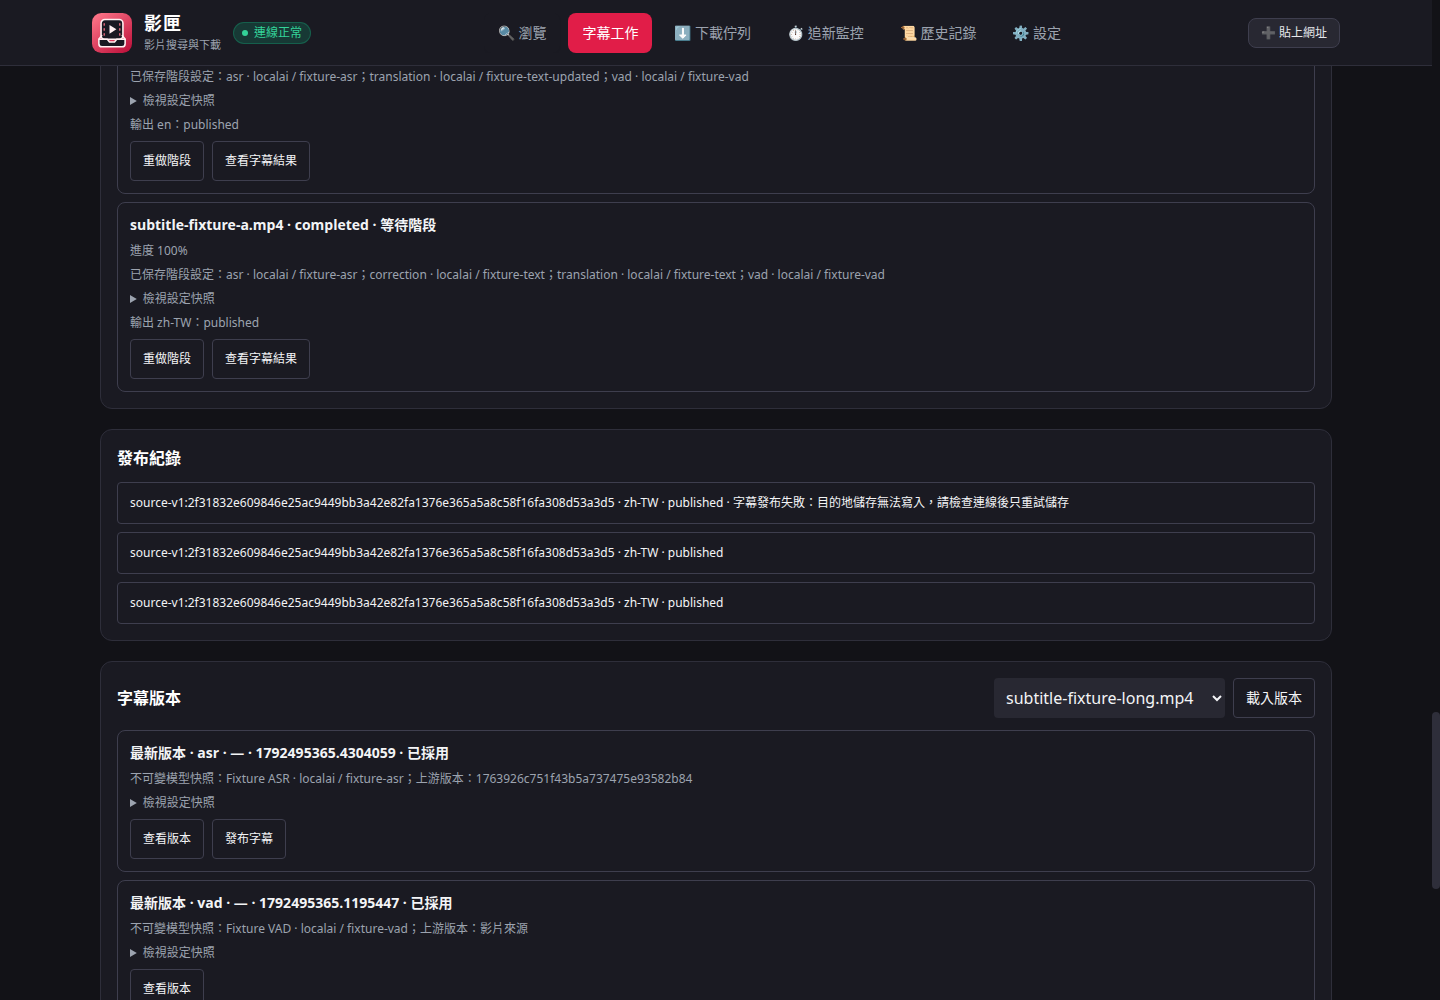
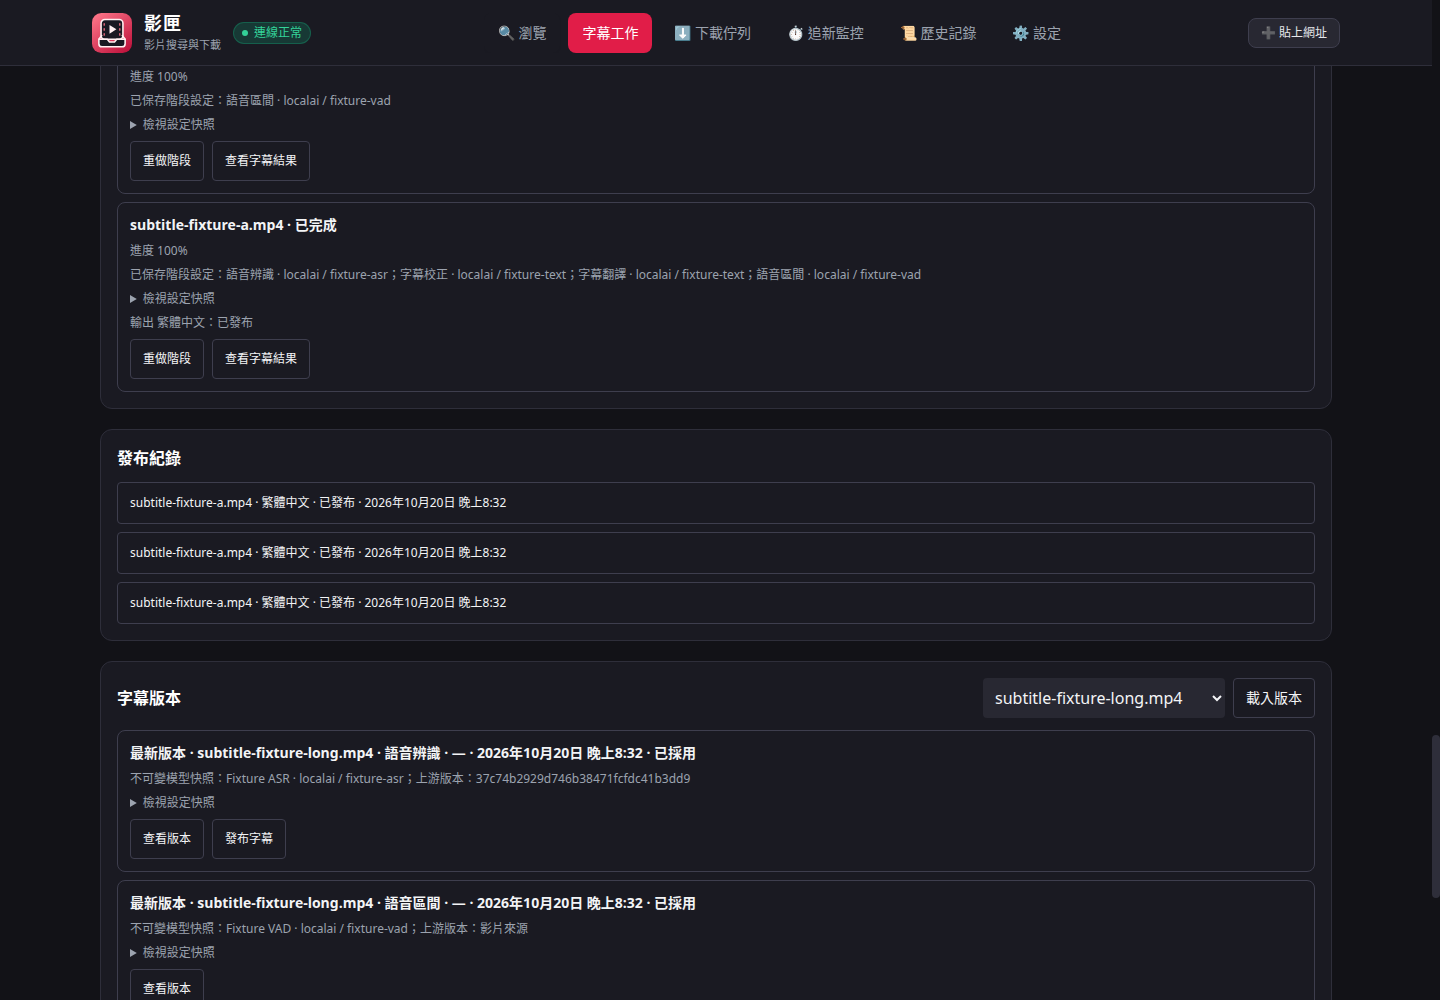
docs: record subtitle acceptance evidence

diff --git a/docs/superpowers/plans/2026-10-20-external-subtitles.md b/docs/superpowers/plans/2026-10-20-external-subtitles.md
@@ -108,7 +108,7 @@ class StageResult:
 
 `subtitle_tasks.submit(video_id, selected_stages, profile_snapshots, target_languages) -> TaskSnapshot`；`subtitle_tasks.redo(video_id, stage, profile_snapshot, language=None, input_result_id=None) -> TaskSnapshot`；`subtitle_tasks.cancel(task_id) -> None`；`subtitle_tasks.resume(task_id) -> TaskSnapshot`。既有 daemon 任務介面保持不變，供下載呼叫端使用。
 
-HTTP 路由前綴為 `/api/subtitles`：`GET/PUT /profiles`、`POST /profiles/test`、`GET /videos`、`GET/POST /tasks`、`GET /tasks/{task_id}` 與 `POST /tasks/{task_id}/action`。任務 action JSON 的 `action` 為 `cancel | resume | reorder | apply_new_settings | redo | retry_publish`；僅在該操作需要時使用 `position`、`profile_ids`、`profile_id`、`stage`、`language`、`input_result_id` 與 `publish_status`。`GET /videos/{video_id}/results` 列出階段結果版本及 `stale`／`adopted` 狀態；`GET /videos/{video_id}/results/{result_id}` 回傳區間或字幕片段、上游版本及建立時的非秘密設定快照；`GET /videos/{video_id}/results/{result_id}/content` 一律回傳 JSON `{content_type, filename, content}`。文字結果的 `content` 是 SRT 字串；VAD 結果的 `content` 是 `{start, end}` 區間陣列。Web 以 Blob 顯示或下載該內容，不把內容端點視為原始 HTTP 媒體回應。結果 action 的 `publish` 使用 `output_language` 並要求明確布林值 `replace_existing`；`restore` 只選上一個版本，發布失敗可用 publication ID 再送 `retry_publish`，只重試儲存。下載提交可帶 `subtitle_request`（階段、profile IDs、語言及思考選項）；daemon 在接受下載前驗證並拍下設定快照，沿用下載完成後的既有字幕提交 hook。
+HTTP 路由前綴為 `/api/subtitles`：`GET/PUT /profiles`、`POST /profiles/test`、`GET /videos`（清單回傳 `partial` 與安全 `notice`，掃描受項目數及經過時間預算限制）、`GET/POST /tasks`、`GET /tasks/{task_id}` 與 `POST /tasks/{task_id}/action`。任務 action JSON 的 `action` 為 `cancel | resume | reorder | apply_new_settings | redo | retry_publish`；僅在該操作需要時使用 `position`、`profile_ids`、`profile_id`、`stage`、`language`、`input_result_id` 與 `publish_status`。`GET /videos/{video_id}/results` 列出階段結果版本及 `stale`／`adopted` 狀態；`GET /videos/{video_id}/results/{result_id}` 回傳區間或字幕片段、上游版本及建立時的非秘密設定快照；`GET /videos/{video_id}/results/{result_id}/content` 一律回傳 JSON `{content_type, filename, content}`。文字結果的 `content` 是 SRT 字串；VAD 結果的 `content` 是 `{start, end}` 區間陣列。Web 以 Blob 顯示或下載該內容，不把內容端點視為原始 HTTP 媒體回應。結果 action 的 `publish` 使用 `output_language` 並要求明確布林值 `replace_existing`；`restore` 只選上一個版本，發布失敗可用 publication ID 再送 `retry_publish`，只重試儲存。下載提交可帶 `subtitle_request`（階段、profile IDs、語言及思考選項）；daemon 在接受下載前驗證並拍下設定快照，沿用下載完成後的既有字幕提交 hook。
 
 `POST /profiles/test` 必須帶 `confirm_external_call: true`；相容性探測實際呼叫所選 adapter 的微型音訊／文字請求，回報 `format_pass`、`reasoning_control`（`supported | unknown | unsupported`）與 `quality: unverified`。只有另帶 `allow_reasoning: true` 才允許文字測試以思考模式送出。自動模型清單失敗時仍允許手動輸入。字幕 JSON POST/PUT 必須使用 `application/json`，daemon 與 Rust 各自設 1 MiB 請求上限；Rust 保留 daemon 狀態碼與 JSON body，且只代理清單內方法和路徑。即使 Rust 已驗證過，daemon 仍須再次驗證。
 
@@ -120,76 +120,76 @@ LM Studio 模型清單使用官方 REST `GET /api/v0/models` 的 `{object: "list
 
 **檔案：** 新增 `subtitles/profiles.py`、`tests/test_subtitle_profiles.py`；修改 `subtitles/asr.py`、`subtitles/settings.py`；擴充 `tests/test_asr_api.py` 與 `tests/test_translation_settings.py`。
 
-- [ ] 在既有設定／API 接縫新增失敗測試，涵蓋設定檔驗證、相同位址保留憑證、位址變更後清除憑證、遷移及遷移失敗；此層不宣稱涵蓋瀏覽器流程。
-- [ ] 實作 `StageProfile`、`ProfileSnapshot`、`load_profiles`、`save_profile` 與 `snapshot`；遷移失敗時保留來源檔。
-- [ ] 儲存及建立快照時深度複製／canonicalize 設定參數；測試修改輸入或讀回資料不會改變佇列快照。
-- [ ] 快照及公開 JSON 不含秘密；依 ASR 規則接受通過驗證的 HTTP(S) 位址，並將憑證綁定至該位址。
-- [ ] 執行設定／API 與遷移測試；提交 W1，並透過其 PR 關閉 #11。
+- [x] 在既有設定／API 接縫新增失敗測試，涵蓋設定檔驗證、相同位址保留憑證、位址變更後清除憑證、遷移及遷移失敗；此層不宣稱涵蓋瀏覽器流程。
+- [x] 實作 `StageProfile`、`ProfileSnapshot`、`load_profiles`、`save_profile` 與 `snapshot`；遷移失敗時保留來源檔。
+- [x] 儲存及建立快照時深度複製／canonicalize 設定參數；測試修改輸入或讀回資料不會改變佇列快照。
+- [x] 快照及公開 JSON 不含秘密；依 ASR 規則接受通過驗證的 HTTP(S) 位址，並將憑證綁定至該位址。
+- [x] 執行設定／API 與遷移測試；提交 W1，並由整合 PR #19 關聯 #11；合併後關閉 issue。
 
 ## 工作 2：W2，服務適配器與能力驗證（#12）
 
 **檔案：** 新增 `subtitles/vad.py`、`tests/test_vad_api.py`、`tests/test_subtitle_capabilities.py`；修改 `subtitles/asr.py`、`subtitles/llm.py`、`subtitles/settings.py`；擴充 `tests/test_asr_api.py` 與 `tests/test_llm_translation.py`。
 
-- [ ] 使用隔離的 HTTP fixture 新增失敗的 adapter／API 測試，並斷言實際請求與能力結果。
-- [ ] 依共用契約實作 VAD 區間、ASR 片段及文字操作；驗證 URL 組合、有限秒數、片段 ID、服務專用推理控制、取消及回應大小上限。
-- [ ] 含憑證的請求停用重新導向及環境 proxy；允許使用已設定的私有網路端點。
-- [ ] 驗證 adapter／API 與格式錯誤回應；瀏覽器驗收集中於 W7/W8。提交 W2，並透過其 PR 關閉 #12。
+- [x] 使用隔離的 HTTP fixture 新增失敗的 adapter／API 測試，並斷言實際請求與能力結果。
+- [x] 依共用契約實作 VAD 區間、ASR 片段及文字操作；驗證 URL 組合、有限秒數、片段 ID、服務專用推理控制、取消及回應大小上限。
+- [x] 含憑證的請求停用重新導向及環境 proxy；允許使用已設定的私有網路端點。
+- [x] 驗證 adapter／API 與格式錯誤回應；瀏覽器驗收集中於 W7/W8。提交 W2，並由整合 PR #19 關聯 #12；合併後關閉 issue。
 
 ## 工作 3：W3，階段結果與指定階段引擎（#13）
 
 **檔案：** 新增 `subtitles/results.py`、`tests/test_subtitle_results.py`；修改 `subtitles/engine.py`；擴充 `tests/test_subtitle_engine.py` 與 `tests/test_subtitle_provenance.py`。
 
-- [ ] 在現有 API 接縫新增失敗的引擎／結果測試，涵蓋啟用階段、相同設定強制重做、明確選擇舊上游及回復結果。
-- [ ] 依共用契約實作原子結果版本、最新／上一份保留、輸入連結、指定輸出發布及下游過期標記。
-- [ ] 分塊時保留原始時間戳；文字階段保留 ID 與時間邊界；停用的階段不得呼叫外部服務。
-- [ ] 斷言只呼叫指定重做階段／語言，且失敗／取消後仍可選用先前版本。完整瀏覽器流程在 W7/W8 驗收。提交 W3，並透過其 PR 關閉 #13。
+- [x] 在現有 API 接縫新增失敗的引擎／結果測試，涵蓋啟用階段、相同設定強制重做、明確選擇舊上游及回復結果。
+- [x] 依共用契約實作原子結果版本、最新／上一份保留、輸入連結、指定輸出發布及下游過期標記。
+- [x] 分塊時保留原始時間戳；文字階段保留 ID 與時間邊界；停用的階段不得呼叫外部服務。
+- [x] 斷言只呼叫指定重做階段／語言，且失敗／取消後仍可選用先前版本。完整瀏覽器流程在 W7/W8 驗收。提交 W3，並由整合 PR #19 關聯 #13；合併後關閉 issue。
 
 ## 工作 4：W4，字幕佇列、快照與續跑（#14）
 
 **檔案：** 新增 `daemon/subtitle_tasks.py`、`tests/test_subtitle_tasks.py`；修改 `daemon/task_manager.py`；擴充 `tests/test_daemon_downloads.py`。
 
-- [ ] 新增失敗的 daemon／API 測試，涵蓋佇列排序、重複提交、取消、重啟及明確續跑。
-- [ ] 使用不可變快照實作 `submit`、`redo`、`cancel` 與 `resume`；同影片寫入序列化、未完成片段進度保存，取消後忽略晚到回應。
-- [ ] 下載完成時提交字幕工作，不改變下載生命週期；字幕失敗不得重新下載影片。
-- [ ] 驗證續跑只處理未完成片段，保存失敗不得回報成功。完整瀏覽器流程在 W7/W8 驗收。提交 W4，並透過其 PR 關閉 #14。
+- [x] 新增失敗的 daemon／API 測試，涵蓋佇列排序、重複提交、取消、重啟及明確續跑。
+- [x] 使用不可變快照實作 `submit`、`redo`、`cancel` 與 `resume`；同影片寫入序列化、未完成片段進度保存，取消後忽略晚到回應。
+- [x] 下載完成時提交字幕工作，不改變下載生命週期；字幕失敗不得重新下載影片。
+- [x] 驗證續跑只處理未完成片段，保存失敗不得回報成功。完整瀏覽器流程在 W7/W8 驗收。提交 W4，並由整合 PR #19 關聯 #14；合併後關閉 issue。
 
 ## 工作 5：W5，影片選取與安全 SRT／NAS 發布（#15）
 
 **檔案：** 修改 `daemon/subtitle_tasks.py`、`daemon/task_manager.py`、`subtitles/engine.py`；必要時才擴充 `core/storage.py` 或 `daemon/nas.py`；新增 `tests/test_subtitle_file_selection.py`；擴充 `tests/test_smb_storage.py`、`tests/test_subtitle_provenance.py` 與 `tests/test_web_download_settings.py`。
 
-- [ ] 新增失敗的 task／storage／API 測試，涵蓋選取舊下載與允許根目錄中的影片、發布 SRT 及重試失敗的發布。
-- [ ] 驗證根目錄、符號連結、不存在的檔案及權限；選片只建立字幕工作。
-- [ ] 透過既有儲存介面原子發布選定語言 SRT；保護人工修改或來源不明的檔案，未明確替換時另存。
-- [ ] 驗證隔離的本機路徑，以及可用的掛載／NAS／SMB 路徑；確認重試儲存不會新增模型請求。完整瀏覽器流程在 W7/W8 驗收。提交 W5，並透過其 PR 關閉 #15。
+- [x] 新增失敗的 task／storage／API 測試，涵蓋選取舊下載與允許根目錄中的影片、發布 SRT 及重試失敗的發布。
+- [x] 驗證根目錄、符號連結、不存在的檔案及權限；選片只建立字幕工作。
+- [x] 透過既有儲存介面原子發布選定語言 SRT；保護人工修改或來源不明的檔案，未明確替換時另存。
+- [x] 驗證隔離的本機路徑，以及可用的掛載／NAS／SMB 路徑；確認重試儲存不會新增模型請求。完整瀏覽器流程在 W7/W8 驗收。提交 W5，並由整合 PR #19 關聯 #15；合併後關閉 issue。
 
 ## 工作 6：W6，字幕 HTTP API 與 Rust 代理（#16）
 
 **檔案：** 修改 `daemon/server.py`、`uav-web/src/routes.rs`；新增 `tests/test_subtitle_http.py`；擴充 `tests/test_web_download_settings.py` 與 `tests/test_daemon.py`。
 
-- [ ] 透過現有路由接縫新增失敗的 HTTP 測試，涵蓋設定檔、影片、任務、重做、回復及重試發布操作。
-- [ ] 實作前述 `/api/subtitles` 路由；在 daemon 驗證階段、語言、ID、影片是否位於允許根目錄、明確替換及批次各項結果。
-- [ ] 只新增必要的 Rust 轉送；daemon 保持驗證權威，回應與錯誤不得含秘密。
-- [ ] 驗證 HTTP 狀態碼與回應本文；修改 Rust 時執行 `cargo test --manifest-path uav-web/Cargo.toml`。完整瀏覽器流程在 W7/W8 驗收。提交 W6，並透過其 PR 關閉 #16。
+- [x] 透過現有路由接縫新增失敗的 HTTP 測試，涵蓋設定檔、影片、任務、重做、回復及重試發布操作。
+- [x] 實作前述 `/api/subtitles` 路由；在 daemon 驗證階段、語言、ID、影片是否位於允許根目錄、明確替換及批次各項結果。
+- [x] 只新增必要的 Rust 轉送；daemon 保持驗證權威，回應與錯誤不得含秘密。
+- [x] 驗證 HTTP 狀態碼與回應本文；修改 Rust 時執行 `cargo test --manifest-path uav-web/Cargo.toml`。完整瀏覽器流程在 W7/W8 驗收。提交 W6，並由整合 PR #19 關聯 #16；合併後關閉 issue。
 
 ## 工作 7：W7，瀏覽器設定、任務與結果（#17）
 
 **檔案：** 修改 `uav-web/frontend/index.html`；新增 `subtitle-settings.js`、`subtitle-tasks.js`、`tests/subtitle_workflow.cjs`；擴充 `tests/web_settings.cjs` 與 `tests/task_menu.cjs`。
 
-- [ ] 使用實際 Web／daemon 程序與隔離 HTTP fixture 建立 Chrome 流程：設定 → 選片 → 提交 → 查看進度 → 重做指定階段 → 取消／續跑 → 檢視／發布結果。
-- [ ] 顯示設定檔能力與推理狀態、階段／語言選擇、佇列操作、過期依賴、原文與矯正後結果、先前版本，以及模型結果與發布狀態的區別。
-- [ ] 依固定路由支援檢視／下載、回復、明確替換、佇列排序、套用新設定及重試發布。
-- [ ] 使用 Chrome 驗證窄畫面、鍵盤、空清單、背景進度、重複提交與失敗後重試。提交 W7，並透過其 PR 關閉 #17。
+- [x] 使用實際 Web／daemon 程序與隔離 HTTP fixture 建立 Chrome 流程：設定 → 選片 → 提交 → 查看進度 → 重做指定階段 → 取消／續跑 → 檢視／發布結果。
+- [x] 顯示設定檔能力與推理狀態、階段／語言選擇、佇列操作、過期依賴、原文與矯正後結果、先前版本，以及模型結果與發布狀態的區別。
+- [x] 依固定路由支援檢視／下載、回復、明確替換、佇列排序、套用新設定及重試發布。
+- [x] 使用 Chrome 驗證窄畫面、鍵盤、空清單、背景進度、重複提交與失敗後重試。提交 W7，並由整合 PR #19 關聯 #17；合併後關閉 issue。
 
 ## 工作 8：W8，整合、品質、文件與部署證據（#18）
 
 **檔案：** 修改 `scripts/check_web.sh`、`README.md`、`docs/README.md`、`docs/web-ui.md`；新增去識別截圖至 `docs/assets/`；僅擴充此功能所需的正式映像驗證入口。
 
-- [ ] 確認瀏覽器流程測試及必要的 Python 契約測試會透過 `scripts/check_web.sh` 執行，也會在正式 Web 測試映像執行。
-- [ ] 執行離線回歸及此功能專屬的正式映像整合流程，涵蓋階段重做、重啟／續跑、取消、安全 SRT 發布及儲存重試。
-- [ ] 僅在服務與模型版本已確認時記錄真實 LocalAI VAD／ASR 與 LocalAI／Ollama／LM Studio 文字服務相容性；否則列為未驗證。模型品質須使用固定代表音訊及參考文字，fixture 結果不能作為品質驗收。
-- [ ] 更新使用說明，並從執行中的版本擷取畫面；隱去私人媒體、位址、路徑與憑證。
-- [ ] 只透過 `python3 scripts/deploy_remote.py` 執行部署驗證，並記錄生產環境的獨立結果或明確標示未完成；不得以離線或容器測試取代。
-- [ ] 完成整體審查並處理所有發現，再透過最後的 PR 關閉 #18；整合 PR 保持可供審查，不合併至預設分支。
+- [x] 確認瀏覽器流程測試及必要的 Python 契約測試會透過 `scripts/check_web.sh` 執行，也會在正式 Web 測試映像執行。
+- [x] 執行離線回歸及此功能專屬的正式映像整合流程，涵蓋階段重做、重啟／續跑、取消、安全 SRT 發布及儲存重試。
+- [x] 僅在服務與模型版本已確認時記錄真實 LocalAI VAD／ASR 與 LocalAI／Ollama／LM Studio 文字服務相容性；否則列為未驗證。模型品質須使用固定代表音訊及參考文字，fixture 結果不能作為品質驗收。
+- [x] 更新使用說明，並從執行中的版本擷取畫面；隱去私人媒體、位址、路徑與憑證。
+- [ ] 生產環境部署驗證尚未執行；隔離候選主機計畫待核准，不能取代 live 驗證。若之後執行，只透過 `python3 scripts/deploy_remote.py`，並獨立記錄結果；不得以離線或容器測試取代。
+- [ ] Standards／Spec 與整體程式審查的發現已處理；PR #19 仍是 draft，issue #18 尚未關閉。整合 PR 保持可供審查，不合併至預設分支。
 
 ## 自我檢查
 
@@ -198,3 +198,11 @@ LM Studio 模型清單使用官方 REST `GET /api/v0/models` 的 `{object: "list
 - **型別一致：** `Stage`、`StageProfile`、`ProfileSnapshot`、`SpeechInterval`、`SubtitleSegment`、`StageResult`、adapter、結果保存、任務及 HTTP 名稱在各工作中維持一致。
 - **審查重點：** 上述五類未涵蓋輸入都列出瀏覽器或 fixture 斷言及負責工作。
 - **篇幅檢查：** 計畫固定檔案責任與跨工作介面，沒有重複 #10 的產品規格，也沒有規定函式內部實作方式。
+
+### 最終驗收證據（2026-10-20）
+
+- 來源 SHA：`f4ef4b195d6224955937e80820b3dd5b8f562bec`；正式產品映像 `sha256:769bb7b4400318680aa19287af605028b89aa319c4b7e30e38a867214d2ea80e`；正式唯讀 CI 測試映像 `sha256:a4745463c5d21fdcc837d91c3b0887fb93c4726b3d37ce01af222197f0056843`。
+- `scripts/check_web.sh` 主機與唯讀來源正式映像各通過 866 個 Python 測試（3 個略過），且所有 CJS／Chrome 流程通過。正式流程包含成功的 legacy startup migration fixture 請求、`retry_wait` 取消、發布重試清除舊錯誤。
+- `scripts/check_web_container.sh` 通過；`scripts/check_smb_batch_container.sh` 以真實 Samba LIST 來源、直接發布及 upload alias 發布通過，且保留 staging。未掛載真實 NAS。
+- 新截圖：`docs/assets/web-independent-subtitles-desktop.png`、`docs/assets/web-independent-subtitles-mobile.png`。實際 LocalAI／Ollama／LM Studio 服務及模型品質尚未驗證。
+- 生產 live rollout 尚未執行；隔離部署主機候選計畫仍待核准。PR #19 維持 draft，issue #18 未關閉。
